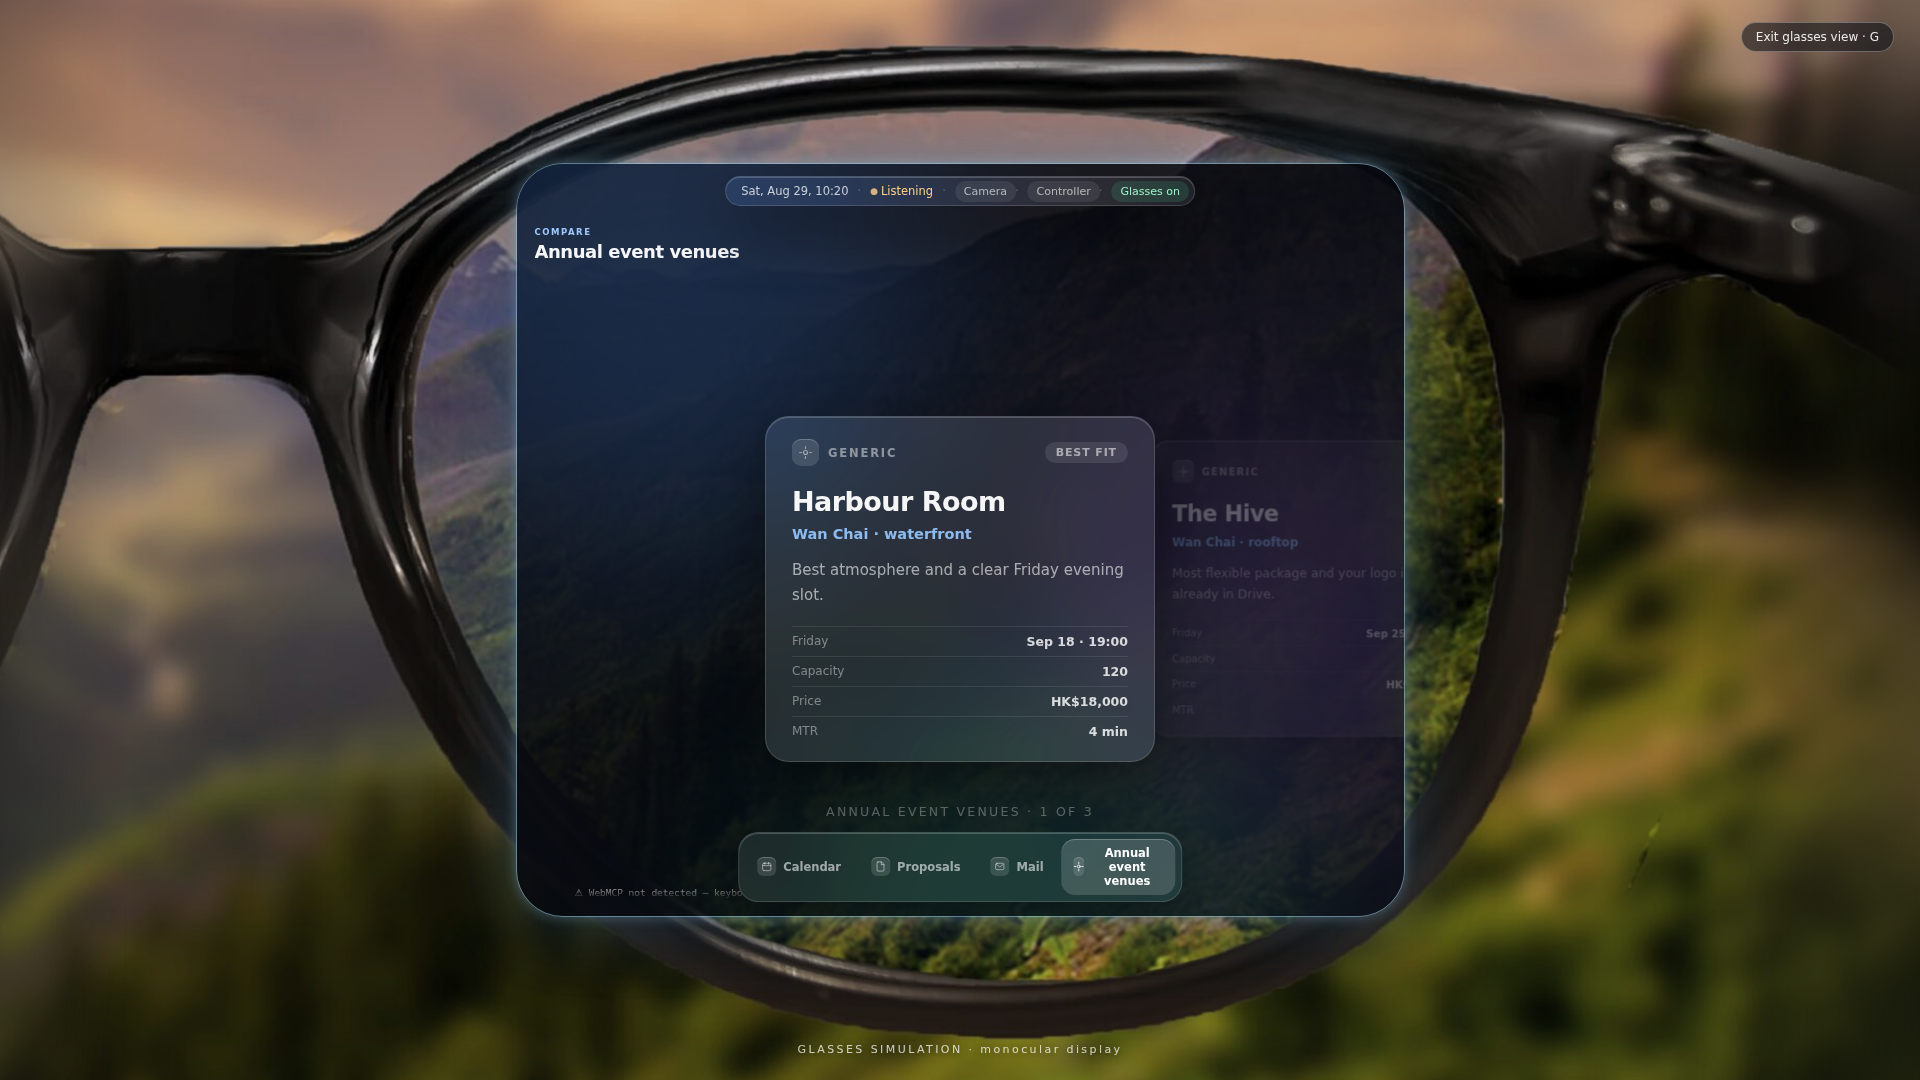
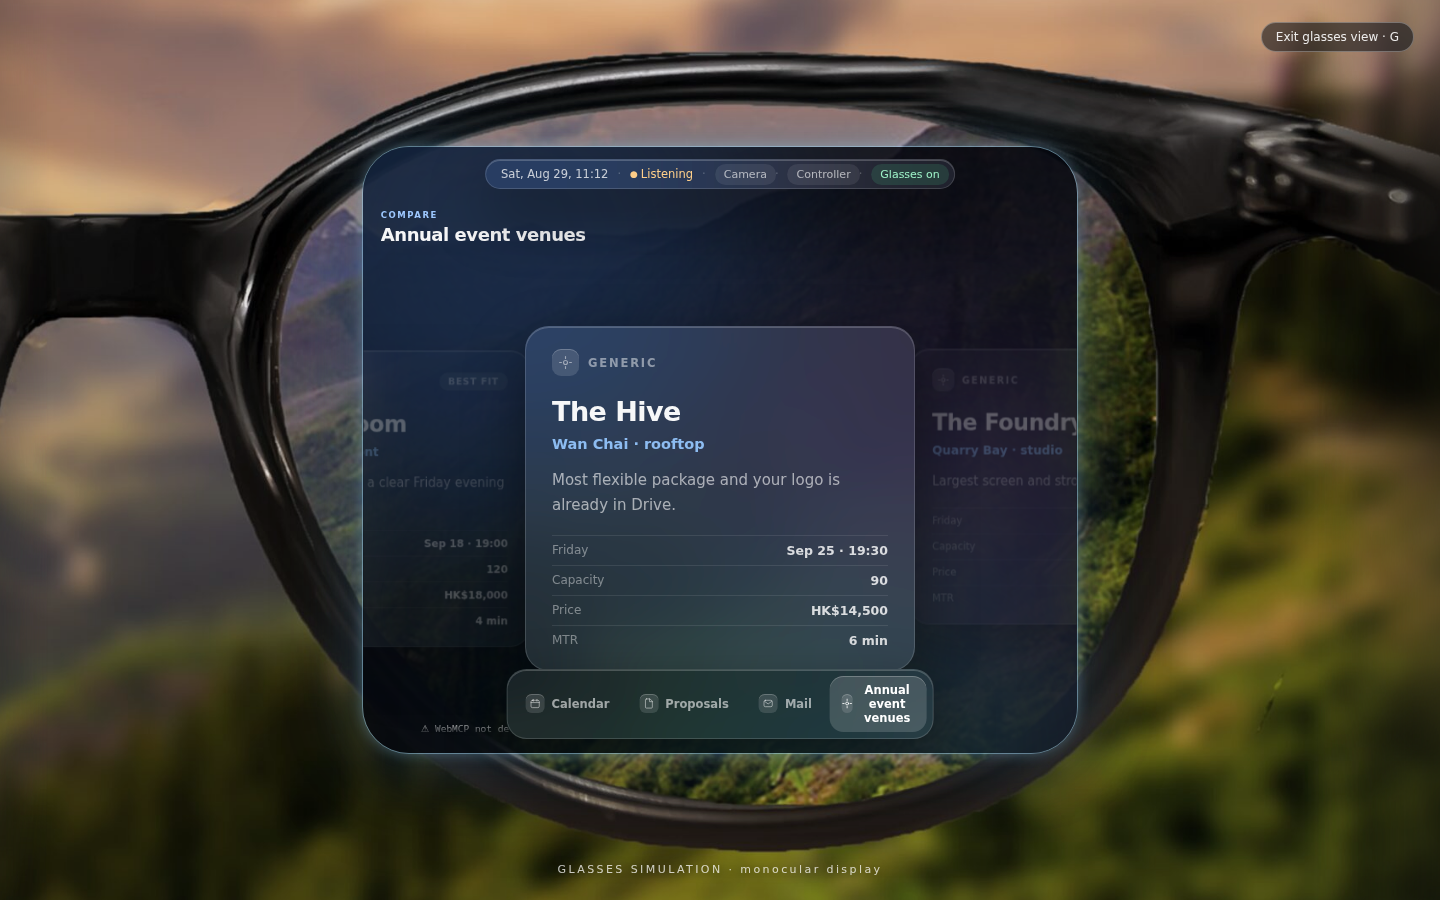
Add project agent notes; refresh compare screenshots from the live build

diff --git a/AGENTS.md b/AGENTS.md
@@ -1,0 +1,85 @@
+# WebMCP Challenge — agent notes
+
+Public MIT repo `shekkawai/WebMCPChallenge`, entered in OpenAI's WebMCP Challenge
+(**deadline Sept 4 2026, 04:00 HK**). Live at
+`https://webmcp-challenge.shekkawai.workers.dev`.
+
+The pitch is **Smart Responsive**: responsive design adapted *layout* to screen size;
+this adapts *interaction and presentation* to context. The agent says what the data is
+and what the user needs to do with it; the page decides how it looks on a desk, across
+a room, or in a lens. `SPEC.md` is the standard proposal and is the most quotable
+artifact in the repo — keep it and the code in agreement.
+
+## Non-negotiables
+
+- **The agent never picks a component.** It sends `purpose` (one of six) plus items via
+  `surface_present`; the page maps purpose + context + item shape to a renderer. Layout
+  `hint`s are advisory and may be ignored; `purpose` may not. Unknown purpose degrades to
+  `browse` rather than failing. Never add `show_table`/`show_dropdown`-style tools — the
+  whole argument dies if the vocabulary becomes one tool per widget.
+- **Sensitive actions stay human-confirmed.** Ring Select and local tools may open, close,
+  focus, and choose. They may never create a calendar event or send anything. The page
+  also must not claim "Event added" before the write is confirmed.
+- **`surface_get_view_state` returns IDs, titles, and `hasContent`/`hasImage` flags only** —
+  never email bodies, never base64 image data. It is the deixis channel ("this one"), not
+  a data exfiltration route.
+- **Ring/controller input is opt-in and learned.** Outside Ring Mode, vertical wheel,
+  ArrowUp/Down, PageUp/Down and ordinary clicks must do nothing. A learned wheel binding
+  must never hijack scrolling inside an open reader. These rules exist because each was a
+  real bug found in a browser pass, not by tests.
+- **Camera is opt-in, and the pixels never leave the tab.** The privacy line ("the agent
+  coached me and never saw me") is load-bearing for the submission.
+- Camera, ring, keyboard, mouse and the agent are **independently stackable channels**,
+  never a mode switch the user must choose between.
+
+## Verification that actually catches things
+
+`bun test` (60 tests) covers pose maths from real landmark fixtures, the swipe classifier,
+purpose mapping, adapter registration lifecycle, and glasses geometry. It has repeatedly
+passed while the app was broken in the browser — **every input, motion, or layout change
+needs a live `agent-browser` pass too.**
+
+- `agent-browser screenshot <path>` — the full-page flag is `--full`, **not**
+  `--full-page`; passing the wrong one silently creates a file literally named
+  `--full-page` in the cwd instead of failing. This has happened three times.
+- Everything is drivable without a camera: `?demo=mail|drive|calendar|month|reader|slots|options|chosen|people|done|photo|compare`,
+  arrow keys mirror the palm swipe 1:1, and `?glasses=1` forces the lens view.
+- Glasses mode is **persisted**, so a URL without `glasses=1` can still open in the lens.
+  Press `G` or use the Exit button before capturing a "desktop" screenshot.
+
+## Architecture facts (do not re-derive)
+
+- Static Vite build, no backend. `src/webmcp/adapter.ts` resolves both
+  `document.modelContext` and the older `navigator.modelContext`, and registers tools with
+  an `AbortSignal` so dynamic re-registration genuinely unregisters. Registering by
+  signature and re-registering on state change is what makes `toolchange` fire — that is
+  the spec feature the judges built and it is a scored part of the entry.
+- `src/motion.ts` owns all motion. Deck focus changes are **CSS role classes**
+  (`focus`/`prev`/`next`/`far-left`/`far-right`) transitioning on `.card`, not per-frame JS;
+  `trackSwipe` only takes over during a live palm drag and `gesture-tracking` disables the
+  transition while it does. View swaps animate through two stacked layers in `replace()`.
+- `src/views/glasses.ts` is presentational only and must stay that way. `LENS` at the top
+  is the only thing to change if the photo is swapped. The frame — not the photo — is
+  anchored to the viewport centre, so a wider window shows more frame, never a cropped one.
+  The app gets a real near-square viewport and **reflows**; it is never scaled down.
+- `public/mediapipe/` is ~40 MB of vendored WASM + hand-landmarker model (no CDN egress).
+  It is deliberate; obligations are recorded in `THIRD-PARTY-NOTICES.md`.
+
+## Deploying
+
+`bun run deploy` — note the script runs `env -u CLOUDFLARE_API_TOKEN wrangler deploy`.
+Both Cloudflare tokens in Zo secrets are **expired**; unsetting the stale env var lets
+wrangler fall back to its cached OAuth login, which works. Do not "fix" that by removing
+the `env -u`.
+
+`.github/workflows/deploy.yml` runs tests + build on every PR and push, then deploys only
+if the `CLOUDFLARE_API_TOKEN` repo secret exists. It does not, so CI verifies and **skips
+the deploy step cleanly** — that is expected, not a failure. `CLOUDFLARE_ACCOUNT_ID` is
+already set. Until Shek creates a Worker-edit token, every deploy is manual from here, so
+**always confirm the live bundle hash matches a fresh local build** after pushing.
+
+## Still open
+
+Live connector rehearsal in ChatGPT desktop, and the 3-minute video. Both are the critical
+path; new features are not. The video arc is one page shot three ways — desk (keys), across
+the room (voice + palm), glasses context (voice + ring) — with no code change between shots.
